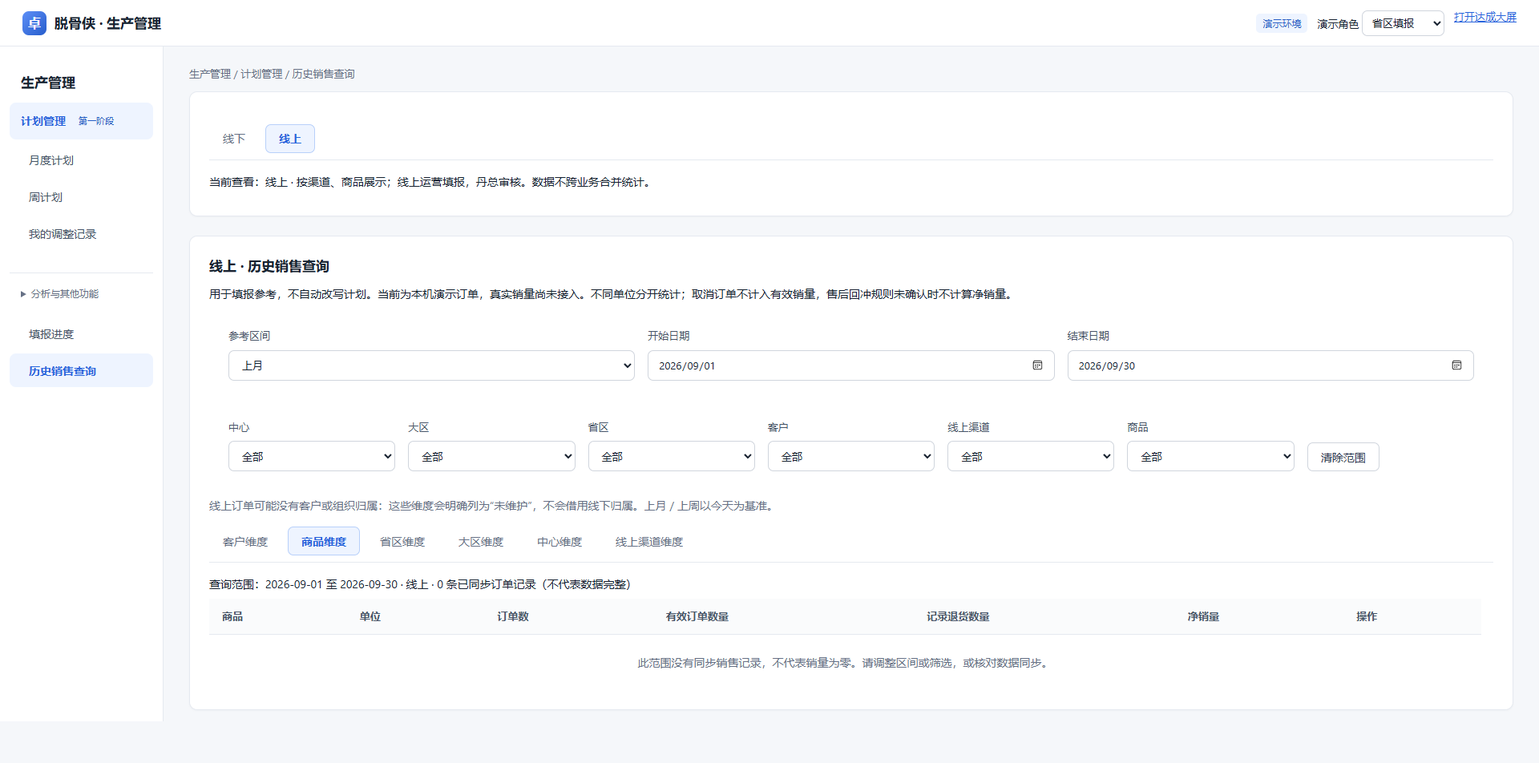
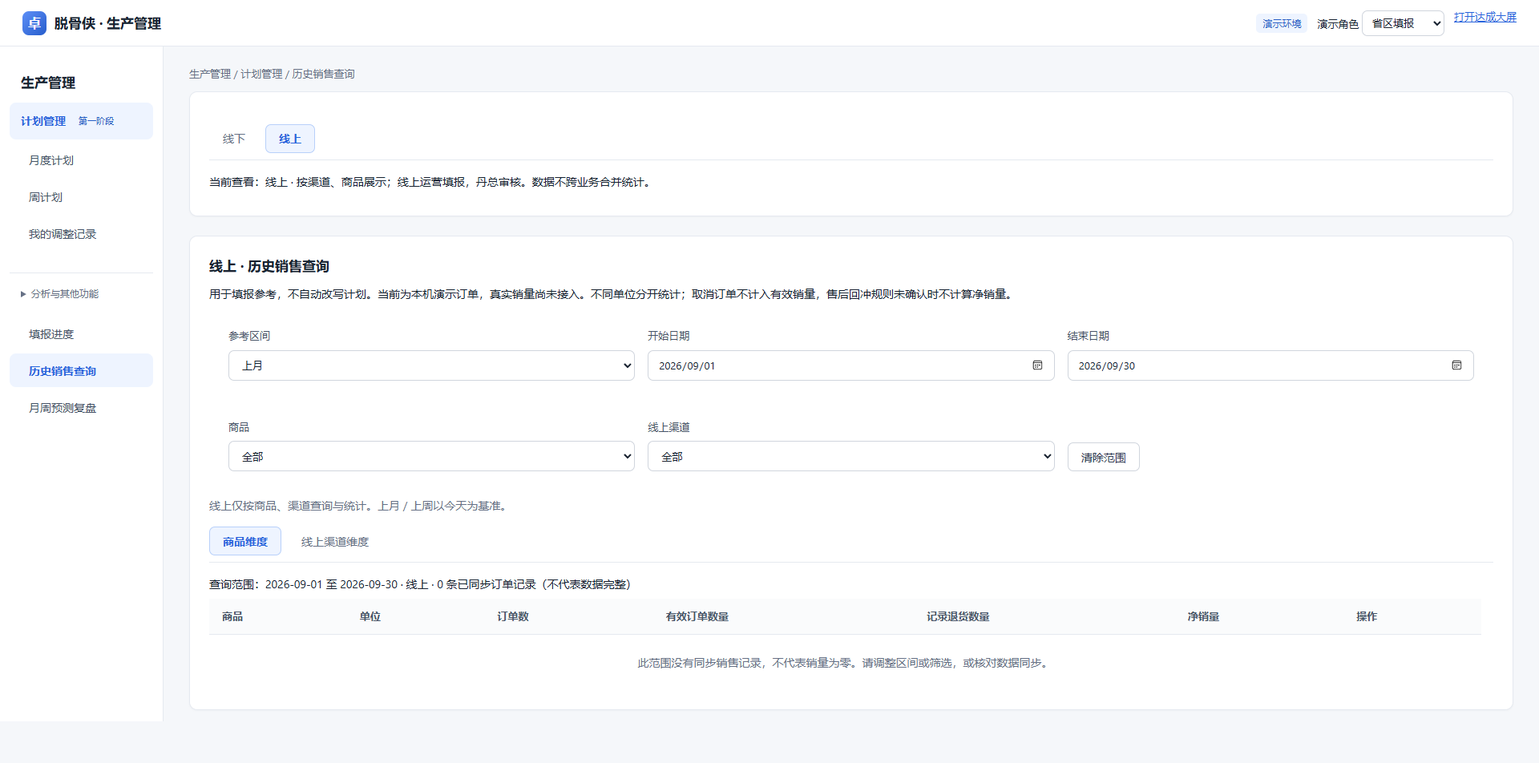
Auto sync 2026-10-12 15:03:13

diff --git a/09-设计与原型/销售计划管理/销售计划管理.js b/09-设计与原型/销售计划管理/销售计划管理.js
@@ -34,9 +34,9 @@
   }
   function filterBar(){const areaList=Object.keys(M.areas), provinces=filters.area==='all'?Object.values(M.areas).flat():M.areas[filters.area];return `<div class="card row filters"><label>业务 <select data-filter="business">${options(['offline','online'],filters.business).replace('>offline<','>线下<').replace('>online<','>线上<')}</select></label>${view==='plans'?'':`<label>计划类型 <select data-filter="kind">${options(['month','week'],filters.kind).replace('>month<','>月度计划<').replace('>week<','>周计划<')}</select></label>`}<label>计划周期 <input data-filter="cycle" aria-label="计划周期" type="${filters.kind==='month'?'month':'date'}" value="${esc(filters.cycle)}"></label><label>销售中心 <select data-filter="center">${options(M.centers,filters.center,'全部中心')}</select></label><label>大区 <select data-filter="area">${options(areaList,filters.area,'全部大区')}</select></label><label>省区 <select data-filter="province">${options(provinces,filters.province,'全部省区')}</select></label><label>线上渠道 <select data-filter="channel">${options(M.channels,filters.channel,'全部渠道')}</select></label><label>统计单位 <select data-filter="unit">${options(['箱','包','袋','盒','罐','支'],filters.unit)}</select></label><button data-action="clear">清除筛选</button></div>`;}
   function metrics(list){const approved=list.filter(p=>p.stage>=M.chain(p).length&&!p.rejected), total=approved.reduce((s,p)=>s+p.qty,0), actual=approved.some(p=>M.actual(d,p)===null)?null:approved.reduce((s,p)=>s+M.actual(d,p),0);return `<div class="metrics"><div class="metric">已确认计划数量<strong>${fmt(total)}</strong>${esc(filters.unit)} · ${approved.length} 条计划</div><div class="metric">实际完成数量<strong>${fmt(actual)}</strong>取消单不计入 · 同单位订单</div><div class="metric">计划差异<strong>${fmt(actual===null?null:total-actual)}</strong>计划减实际，允许负差异</div><div class="metric">达成率<strong>${actual===null?'待确认':total?Math.round(actual/total*100)+'%':'—'}</strong>月周计划独立分析</div></div>`;}
-  function planTable(list,review=false){return list.length?`<div class="table-wrap"><table><thead><tr><th>计划 / 版本</th><th>业务 / 周期</th><th>填报维度</th><th>商品</th><th>计划数量</th><th>实际完成</th><th>状态</th><th>操作</th></tr></thead><tbody>${list.map(p=>`<tr><td>${esc(p.id)} · V${p.version}<small>${esc(p.owner)}</small></td><td>${p.business==='online'?'线上':'线下'}${p.kind==='month'?'月度':'周'}<small>${p.start} 至 ${p.end}</small></td><td>${esc(subject(p))}<small>${esc(p.center)} ${esc(p.area)}</small></td><td>${esc(product(p.product))}</td><td>${fmt(p.qty)} ${esc(p.unit)}</td><td>${fmt(M.actual(d,p))}</td><td>${tag(M.status(d,p))}</td><td><button data-action="detail" data-id="${p.id}">详情 / 订单</button> ${p.stage<0||p.rejected?`<button data-action="submit" data-id="${p.id}">提交</button>`:''}${review&&M.chain(p)[p.stage]===role?` <button data-action="review" data-id="${p.id}">审核</button>`:''}${!screen&&p.stage>=M.chain(p).length&&!p.archived?` <button data-action="adjust" data-id="${p.id}">调整数量</button> <button data-action="archive" data-id="${p.id}">归档</button>`:''}</td></tr>`).join('')}</tbody></table></div>`:'<div class="empty">暂无符合条件的计划。请清除筛选或新增计划。</div>';}
+  function planTable(list,review=false){return list.length?`<div class="table-wrap"><table><thead><tr><th>计划 / 版本</th><th>业务 / 周期</th><th>填报维度</th><th>商品</th><th>计划数量</th><th>实际完成</th><th>状态</th><th>操作</th></tr></thead><tbody>${list.map(p=>`<tr><td>${esc(p.id)} · V${p.version}<small>${esc(p.owner)}</small></td><td>${p.business==='online'?'线上':'线下'}${p.kind==='month'?'月度':'周'}<small>${p.start} 至 ${p.end}</small></td><td>${esc(subject(p))}${p.business==='offline'?`<small>${esc(p.center)} ${esc(p.area)}</small>`:''}</td><td>${esc(product(p.product))}</td><td>${fmt(p.qty)} ${esc(p.unit)}</td><td>${fmt(M.actual(d,p))}</td><td>${tag(M.status(d,p))}</td><td><button data-action="detail" data-id="${p.id}">详情 / 订单</button> ${p.stage<0||p.rejected?`<button data-action="submit" data-id="${p.id}">提交</button>`:''}${review&&M.chain(p)[p.stage]===role?` <button data-action="review" data-id="${p.id}">审核</button>`:''}${!screen&&p.stage>=M.chain(p).length&&!p.archived?` <button data-action="adjust" data-id="${p.id}">调整数量</button> <button data-action="archive" data-id="${p.id}">归档</button>`:''}</td></tr>`).join('')}</tbody></table></div>`:'<div class="empty">暂无符合条件的计划。请清除筛选或新增计划。</div>';}
   function content(){
-    if(view==='plans'||view==='review')return `<div class="row space"><div><h1>${view==='review'?'分级审核':filters.kind==='month'?'月度计划填报':'周计划填报'}</h1><p class="muted">汇集线上、线下需求计划，为后续生产安排提供已确认的计划依据。线下月、周计划统一按省区、客户、商品填报，线上按渠道填报。</p></div>${view==='plans'?'<button class="primary" data-action="new">新增计划</button>':''}</div><div class="notice">月度窗口：${M.windowState(d,'month')} · 周计划窗口：${M.windowState(d,'week')}。月度20日填报、周五前完成，精确时点在填报规则中配置。</div>${metrics(rows())}${view==='review'?reviewSummary(rows()):''}<section class="card">${planTable(rows(),view==='review')}</section>`;
+    if(view==='plans'||view==='review')return `<div class="row space"><div><h1>${view==='review'?'分级审核':filters.kind==='month'?'月度计划填报':'周计划填报'}</h1><p class="muted">汇集线上、线下需求计划，为后续生产安排提供已确认的计划依据。线下月、周计划统一按省区、客户、商品填报，线上按渠道填报。</p></div>${view==='plans'?'<button class="primary" data-action="new">新增计划</button>':''}</div><div class="notice">月度窗口：${M.windowState(d,'month')} · 周计划窗口：${M.windowState(d,'week')}。月度20日填报、周五前完成，精确时点在填报规则中配置。</div>${metrics(rows())}${view==='review'&&filters.business==='offline'?reviewSummary(rows()):''}<section class="card">${planTable(rows(),view==='review')}</section>`;
     if(view==='analysis')return analysis();
     if(view==='products')return `<section class="card"><div class="row space"><h1>可填报商品维护</h1><button data-action="product-new" ${role!=='商品管理员'?'disabled':''}>新增商品</button></div><p>商品管理员维护启用状态、适用业务、生效与失效日期。停用不影响历史计划。</p><div class="table-wrap"><table><thead><tr><th>商品编码 / 名称</th><th>适用业务</th><th>有效期</th><th>状态</th><th>操作</th></tr></thead><tbody>${d.products.map(p=>`<tr><td>${esc(p.id)}<small>${esc(p.name)}</small></td><td>${esc(p.scope)}</td><td>${p.from} 至 ${p.to||'长期'}</td><td>${p.enabled?'已启用':'已停用'}</td><td><button data-action="product-edit" data-id="${p.id}" ${role!=='商品管理员'?'disabled':''}>编辑</button></td></tr>`).join('')}</tbody></table></div><h3>商品变更记录</h3>${d.productHistory.map(h=>`<p>${esc(h.at)} · ${esc(h.id)} · ${esc(h.action)}</p>`).join('')||'<p class="muted">暂无变更记录</p>'}</section>`;
     if(view==='adjustments')return `<section class="card"><h1>计划调整与审批</h1><p>开始前可调整月、周计划内容并重新审批；普通数量调整由计划部门审核，不走 OA。审批通过生成新版本，驳回保留原计划。</p>${d.adjustments.length?`<div class="table-wrap"><table><thead><tr><th>计划</th><th>调整前 / 后</th><th>原因 / 附件</th><th>审批人</th><th>状态 / 进度</th><th>操作</th></tr></thead><tbody>${d.adjustments.map(a=>`<tr><td>${a.plan} · V${a.base}<small>${a.type==='before-start'?'开始前内容调整':a.type==='quantity'?'普通数量调整':'历史加急数量调整'}</small></td><td>${a.type==='before-start'?`<details><summary>内容变更对比</summary><table><thead><tr><th>字段</th><th>原计划</th><th>申请调整</th></tr></thead><tbody>${PlanChange.diff(a,d)}</tbody></table></details>`:''}${fmt(a.before)} → ${fmt(a.after)}<small>差异 ${fmt(a.after-a.before)}</small></td><td>${esc(a.reason)}<small>${esc(a.attachment||'无附件')}</small></td><td>${esc(a.approver)}</td><td>${tag(a.type==='quantity'&&['待OA审批','待计划部门审核'].includes(a.status)?'待计划部门审核':a.status)}<small>发起：${esc(a.at)}</small><small>${a.reviewAt?'审批：'+esc(a.reviewAt):'等待 '+esc(a.approver)+' 确认'}</small><small>${esc(a.opinion||'')}</small></td><td>${['待OA审批','待计划部门审核'].includes(a.status)&&role===a.approver?`<button data-action="adjust-review" data-id="${a.id}">演示审批</button>`:''}</td></tr>`).join('')}</tbody></table></div>`:'<div class="empty">暂无调整记录。请从计划列表发起调整。</div>'}</section>`;
@@ -45,12 +45,12 @@
   }
 
   function reviewSummary(list){const groups=new Map();list.filter(p=>p.business==='offline').forEach(p=>{const key=p.center+' / '+p.area;const g=groups.get(key)||{original:0,current:0,count:0};g.original+=p.versions[0].qty;g.current+=p.qty;g.count++;groups.set(key,g);});return '<section class="card"><h2>省区 → 大区 → 中心汇总</h2><p class="muted">当前筛选范围及单位；省区原始值与执行版本分开保留，逐级审核意见可从明细查看。</p><div class="table-wrap"><table><thead><tr><th>中心 / 大区</th><th>省区计划明细数</th><th>原始填报合计</th><th>执行计划合计</th></tr></thead><tbody>'+[...groups].map(([name,g])=>'<tr><td>'+esc(name)+'</td><td>'+g.count+'</td><td>'+fmt(g.original)+'</td><td>'+fmt(g.current)+'</td></tr>').join('')+'</tbody></table></div></section>';}
-  function orderTable(list){list=list.filter(o=>PlanBusiness.canView(d,role,o)&&o.business===filters.business);return `<div class="table-wrap"><table><thead><tr><th>订单 / 来源</th><th>日期 / 客户或渠道</th><th>商品</th><th>数量 / 退货</th><th>月计划关联</th><th>周计划关联</th><th>状态</th></tr></thead><tbody>${list.map(o=>{const links=k=>d.plans.filter(p=>p.kind===k&&M.linked(d,p).some(x=>x.id===o.id));return `<tr><td>${o.id}<small>${o.source}</small></td><td>${o.date}<small>${esc(o.customer||o.channel)}</small></td><td>${esc(product(o.product))}</td><td>${fmt(o.qty)} ${o.unit}<small>退货 ${fmt(o.returned)}</small></td>${['month','week'].map(k=>`<td>${links(k).map(p=>`<button data-action="detail" data-id="${p.id}">${p.id}</button>`).join('')||'未匹配'}${links(k).length>1?tag('多匹配异常'):''} <button data-action="link-${k}" data-id="${o.id}">处理</button></td>`).join('')}<td>${esc(o.status)}</td></tr>`;}).join('')}</tbody></table></div>`;}
+  function orderTable(list){list=list.filter(o=>PlanBusiness.canView(d,role,o)&&o.business===filters.business);return `<div class="table-wrap"><table><thead><tr><th>订单 / 来源</th><th>日期 / ${filters.business==='online'?'渠道':'客户'}</th><th>商品</th><th>数量 / 退货</th><th>月计划关联</th><th>周计划关联</th><th>状态</th></tr></thead><tbody>${list.map(o=>{const links=k=>d.plans.filter(p=>p.kind===k&&M.linked(d,p).some(x=>x.id===o.id));return `<tr><td>${o.id}<small>${o.source}</small></td><td>${o.date}<small>${esc(o.business==='online'?o.channel:o.customer)}</small></td><td>${esc(product(o.product))}</td><td>${fmt(o.qty)} ${o.unit}<small>退货 ${fmt(o.returned)}</small></td>${['month','week'].map(k=>`<td>${links(k).map(p=>`<button data-action="detail" data-id="${p.id}">${p.id}</button>`).join('')||'未匹配'}${links(k).length>1?tag('多匹配异常'):''} <button data-action="link-${k}" data-id="${o.id}">处理</button></td>`).join('')}<td>${esc(o.status)}</td></tr>`;}).join('')}</tbody></table></div>`;}
   function analysis(){const list=rows().filter(p=>p.stage>=M.chain(p).length&&!p.rejected), dimensions=filters.business==='online'?['channel','product']:['center','area','province','customer','product'];return `<h1>计划完成情况与达成分析</h1><p class="muted">仅统计已确认及归档计划。不同单位分开统计；缺失销量与未确定口径显示待确认。</p>${metrics(rows())}<div class="grid">${dimensions.map(key=>{const groups=new Map();list.forEach(p=>{const name=key==='product'?product(p.product):p[key];if(!name)return;const x=groups.get(name)||{qty:0,actual:0,ids:[]};x.qty+=p.qty;const n=M.actual(d,p);x.actual=x.actual===null||n===null?null:x.actual+n;x.ids.push(p.id);groups.set(name,x);});return `<section class="card"><h2>${({center:'销售中心',area:'大区',province:'省区',customer:'客户',channel:'线上渠道',product:'商品'})[key]}达成</h2><div class="table-wrap"><table><thead><tr><th>维度</th><th>已确认计划数量</th><th>实际完成数量</th><th>达成率</th><th>操作</th></tr></thead><tbody>${[...groups].map(([name,g])=>`<tr><td>${esc(name)}</td><td>${fmt(g.qty)} ${esc(filters.unit)}</td><td>${fmt(g.actual)}</td><td>${g.actual===null?'待确认':g.qty?Math.round(g.actual/g.qty*100)+'%':'—'}</td><td>${g.ids.map(id=>`<button data-action="detail" data-id="${id}">详情 ${id}</button>`).join(' ')}</td></tr>`).join('')||'<tr><td colspan="5" class="empty">当前业务暂无已确认计划</td></tr>'}</tbody></table></div></section>`;}).join('')}</div><section class="card"><h2>计划明细下钻</h2>${planTable(list)}</section>`;}
   function modal(title,html){const el=document.getElementById('dialog');el.innerHTML=`<div class="row space"><h2 id="dialogTitle">${esc(title)}</h2><button id="close">关闭</button></div>${html}`;el.querySelector('#close').onclick=()=>el.close();el.showModal();setTimeout(()=>SalesUX.protect(),0);el.querySelectorAll('[data-action]').forEach(b=>b.onclick=()=>action(b.dataset.action,b.dataset.id));}
   const field=(label,name,html)=>`<label class="field">${label}${html||`<input name="${name}" required>`}</label>`;
   function newPlan(){return SalesUX.batch(uxApi);}
-  function detail(p){modal('计划详情 '+p.id,`<p>${esc(subject(p))} · ${esc(product(p.product))} · ${p.start} 至 ${p.end}</p><p>${tag(M.status(d,p))} · 当前 V${p.version} · ${fmt(p.qty)} ${p.unit}</p><h3>省区原始值及逐级汇总</h3><p>原始 ${fmt(p.versions[0].qty)}；当前执行 ${fmt(p.qty)}。以下审核意见保留各级汇总快照。</p><h3>版本记录</h3>${p.versions.map(v=>`<p>V${v.version} · ${fmt(v.qty)} ${p.unit} · ${esc(v.reason)}</p>`).join('')}<h3>全过程记录</h3>${p.history.map(h=>`<div class="history">${esc(h.at)} · ${esc(h.by)} · ${esc(h.action)} ${esc(h.opinion||'')}${h.qty!==undefined?' · 数量 '+fmt(h.qty):''}</div>`).join('')}<h3>内容调整与审批记录</h3>${d.adjustments.filter(a=>a.plan===p.id).map(a=>`<div class="history"><p>${esc(a.at)} · ${esc(a.reason)} · ${tag(a.status)}</p>${a.type==='before-start'?`<table><thead><tr><th>字段</th><th>调整前</th><th>申请调整</th></tr></thead><tbody>${PlanChange.diff(a,d)}</tbody></table>${(a.approvals||[]).map(x=>`<p>${esc(x.at)} · ${esc(x.by)} · ${esc(x.result)} · ${esc(x.opinion)}</p>`).join('')}`:''}</div>`).join('')||'暂无调整记录'}<h3>关联订单</h3>${orderTable(M.linked(d,p))}`);}
+  function detail(p){modal('计划详情 '+p.id,`<p>${esc(subject(p))} · ${esc(product(p.product))} · ${p.start} 至 ${p.end}</p><p>${tag(M.status(d,p))} · 当前 V${p.version} · ${fmt(p.qty)} ${p.unit}</p><h3>${p.business==='online'?'渠道原始填报及审核记录':'省区原始值及逐级汇总'}</h3><p>原始 ${fmt(p.versions[0].qty)}；当前执行 ${fmt(p.qty)}。以下审核意见保留各级汇总快照。</p><h3>版本记录</h3>${p.versions.map(v=>`<p>V${v.version} · ${fmt(v.qty)} ${p.unit} · ${esc(v.reason)}</p>`).join('')}<h3>全过程记录</h3>${p.history.map(h=>`<div class="history">${esc(h.at)} · ${esc(h.by)} · ${esc(h.action)} ${esc(h.opinion||'')}${h.qty!==undefined?' · 数量 '+fmt(h.qty):''}</div>`).join('')}<h3>内容调整与审批记录</h3>${d.adjustments.filter(a=>a.plan===p.id).map(a=>`<div class="history"><p>${esc(a.at)} · ${esc(a.reason)} · ${tag(a.status)}</p>${a.type==='before-start'?`<table><thead><tr><th>字段</th><th>调整前</th><th>申请调整</th></tr></thead><tbody>${PlanChange.diff(a,d)}</tbody></table>${(a.approvals||[]).map(x=>`<p>${esc(x.at)} · ${esc(x.by)} · ${esc(x.result)} · ${esc(x.opinion)}</p>`).join('')}`:''}</div>`).join('')||'暂无调整记录'}<h3>关联订单</h3>${orderTable(M.linked(d,p))}`);}
   function review(p){if(PlanChange.pending(d,p))return message('该计划的内容调整正在审批，请先处理调整。');if(M.chain(p)[p.stage]!==role)return;const previous=d.plans.filter(q=>q.id!==p.id&&q.business===p.business&&q.kind===p.kind&&q.product===p.product&&q.unit===p.unit&&q.end<p.start&&(p.business==='online'?q.channel===p.channel:q.center===p.center&&q.area===p.area&&q.province===p.province&&q.customer===p.customer)).sort((a,b)=>b.end.localeCompare(a.end))[0];modal('审核 '+p.id,`<div class="notice">上期计划：${previous?fmt(previous.qty)+' '+p.unit+'；本期较上期 '+fmt(p.qty-previous.qty):'暂无可比计划，不能用零值替代'}</div><p>${esc(subject(p))} · 数量 ${fmt(p.qty)} ${p.unit}</p><label class="field">审核意见<textarea id="opinion" required></textarea></label><div class="actions"><button id="reject">驳回</button><button class="primary" id="approve">通过并提交下一级</button></div>`);const finish=pass=>{const opinion=document.getElementById('opinion').value.trim();if(!opinion){message('请填写审核意见。');return;}log(p,pass?'审核通过（汇总快照）':'审核驳回',{opinion,qty:p.qty});if(pass)p.stage++;else p.rejected=true;if(persist()){document.getElementById('dialog').close();render();}};document.getElementById('approve').onclick=()=>finish(true);document.getElementById('reject').onclick=()=>finish(false);}
   function adjustment(p){if(!['省区填报','线上运营'].includes(role)){message('请由填报角色申请数量调整。');return;}modal('数量调整 '+p.id,`<form id="adjustForm"><div class="grid">${field('调整类型','type','<select name="type"><option value="add">增加数量</option><option value="subtract">减少数量</option></select>')}${field('差异数量','qty','<input name="qty" type="number" min="1" step="1" required>')}${field('调整原因','reason','<textarea name="reason" required></textarea>')}${field('附件（演示保留文件名）','attachment','<input name="attachment" type="file">')}</div><p>普通数量调整由计划部门审核，不提交 OA；审核通过后生成新版本，保留调整记录。</p><div class="error" id="adjustError"></div><div class="actions"><button class="primary">提交计划部门审核</button></div></form>`);document.getElementById('adjustForm').onsubmit=e=>{e.preventDefault();const f=e.target,q=Number(f.qty.value),after=p.qty+(f.type.value==='add'?q:-q);const guard=PlanBusiness.adjustGuard(d,p,after);if(guard){document.getElementById('adjustError').textContent=guard;return;}if(!Number.isInteger(q)||q<1||after<0||d.adjustments.some(a=>a.plan===p.id&&['待OA审批','待计划部门审核'].includes(a.status))){document.getElementById('adjustError').textContent='数量无效、减少后为负，或该计划已有待审批调整。';return;}d.adjustments.push({id:'A'+Date.now(),plan:p.id,base:p.version,type:'quantity',before:p.qty,after,reason:f.reason.value.trim(),attachment:f.attachment.files[0]?.name||'',approver:'计划部门',at:new Date().toISOString(),status:'待计划部门审核'});log(p,'申请普通数量调整，由计划部门审核');PlanBusiness.notify(d,'计划部门','待审核数量调整',p.id+'：'+p.qty+' → '+after);if(persist()){document.getElementById('dialog').close();view='adjustments';render();}};}
   function productForm(p){if(role!=='商品管理员')return;modal(p?'编辑可填报商品':'新增可填报商品',`<form id="productForm"><div class="grid">${field('商品编码','id',`<input name="id" value="${esc(p?.id||'')}" ${p?'readonly':''} required>`)}${field('商品名称','name',`<input name="name" value="${esc(p?.name||'')}" required>`)}${field('适用业务','scope',`<select name="scope">${options(['全部','线上','线下'],p?.scope)}</select>`)}${field('启用状态','enabled',`<select name="enabled">${options(['已启用','已停用'],p?.enabled===false?'已停用':'已启用')}</select>`)}${field('生效日期','from',`<input name="from" type="date" required value="${p?.from||''}">`)}${field('失效日期','to',`<input name="to" type="date" value="${p?.to||''}">`)}</div><div class="error" id="productError"></div><div class="actions"><button class="primary">保存商品</button></div></form>`);document.getElementById('productForm').onsubmit=e=>{e.preventDefault();const x=Object.fromEntries(new FormData(e.target));if((x.to&&x.to<x.from)||(!p&&d.products.some(v=>v.id===x.id))){document.getElementById('productError').textContent='商品编码重复或有效期错误，请修正。';return;}const before=p?structuredClone(p):null,after={...x,enabled:x.enabled==='已启用'};if(p)Object.assign(p,after);else d.products.push(after);d.productHistory.push({at:new Date().toISOString(),id:x.id,action:before?'商品更新':'新增商品',before,after:structuredClone(after),by:role});if(persist()){document.getElementById('dialog').close();render();}};}

diff --git a/09-设计与原型/销售计划管理/计划任务界面.js b/09-设计与原型/销售计划管理/计划任务界面.js
@@ -12,7 +12,7 @@
   content.querySelector('h1')?.remove();const context=document.createElement('section');context.className='task-context';context.innerHTML=`<div><div class="task-eyebrow">当前任务 · ${E(role)}</div><h1>${E(view==='plans'?scope+' · '+kind+'计划':task)}</h1><p>${E(view==='review'?'只展示下级审核通过并进入本级的数据，点击详情查看来源。':view==='plans'?'每行是一名客户的一个商品计划。填写后提交审核，调整另行留痕。':view==='adjustments'?'先看调整前后差异，再查看原因并处理审核。':'查看下方数据，点击详情进一步查看。')}</p></div><div class="task-context-meta"><span>周期：${E(f.cycle||'全部')}</span><span>范围：${E(scope)}</span><span>单位：${E(f.unit)}</span></div>`;content.prepend(context);const primary=content.querySelector('[data-action=new]');if(primary){context.append(primary);primary.textContent='新增计划';}
   if(['plans','review'].includes(view)){content.querySelector('.metrics')?.remove();content.querySelectorAll('.entry-cards').forEach(e=>e.remove());content.querySelectorAll(':scope>.row.space p').forEach(e=>e.remove());content.querySelectorAll(':scope>.notice').forEach(e=>e.remove());}
   const filters=content.querySelector('.filters');if(filters){const more=document.createElement('details');more.className='filter-more';more.innerHTML='<summary>更多筛选</summary><div class="row"></div>';filters.querySelectorAll('label').forEach(label=>{const key=label.querySelector('[data-filter]')?.dataset.filter;if(!['cycle','kind','province','channel'].includes(key))more.querySelector('div').append(label);if(key==='province'&&role==='线上运营')label.hidden=true;if(key==='channel'&&role!=='线上运营'&&f.business==='offline')label.hidden=true;});filters.append(more);}
-  if(view==='plans'){const list=a.rows(),bar=document.createElement('div');bar.className='task-counts';for(const [label,mode,test] of [['全部','all',()=>true],['草稿','draft',p=>p.stage<0],['审核中','review',p=>p.stage>=0&&p.stage<SalesPlan.chain(p).length&&!p.rejected],['已确认','confirmed',p=>p.stage>=SalesPlan.chain(p).length&&!p.rejected],['已驳回','rejected',p=>p.rejected]]){const b=document.createElement('button');b.textContent=label+' '+list.filter(test).length;b.setAttribute('aria-pressed',a.status()===mode);b.onclick=()=>a.setStatus(mode);bar.append(b);}content.querySelector(':scope>.card:not(.filters)')?.before(bar);const table=content.querySelector(':scope>.card:not(.filters) table');if(table){table.querySelectorAll('tbody tr').forEach(row=>{const id=row.querySelector('[data-action=detail]')?.dataset.id,p=list.find(p=>p.id===id),s=a.status();row.hidden=!!p&&!({all:()=>true,draft:()=>p.stage<0,review:()=>p.stage>=0&&p.stage<SalesPlan.chain(p).length&&!p.rejected,confirmed:()=>p.stage>=SalesPlan.chain(p).length&&!p.rejected,rejected:()=>p.rejected}[s]||(()=>true))();});table.querySelectorAll('tr').forEach(row=>{[0,1,5].forEach(i=>{if(row.children[i])row.children[i].hidden=true;});if(row.parentElement.tagName==='THEAD'&&row.children[2])row.children[2].textContent='客户 / 省区';const b=row.querySelector('[data-action=detail]');if(b)b.textContent='查看详情';});}const window=document.createElement('p');window.className='task-window';window.textContent=kind+'填报：'+SalesPlan.windowState(d,f.kind)+(d.windows[f.kind].close?' · 截止 '+d.windows[f.kind].close.replace('T',' '):' · 时间待配置，可先保存草稿');context.after(window);}
+  if(view==='plans'){const list=a.rows(),bar=document.createElement('div');bar.className='task-counts';for(const [label,mode,test] of [['全部','all',()=>true],['草稿','draft',p=>p.stage<0],['审核中','review',p=>p.stage>=0&&p.stage<SalesPlan.chain(p).length&&!p.rejected],['已确认','confirmed',p=>p.stage>=SalesPlan.chain(p).length&&!p.rejected],['已驳回','rejected',p=>p.rejected]]){const b=document.createElement('button');b.textContent=label+' '+list.filter(test).length;b.setAttribute('aria-pressed',a.status()===mode);b.onclick=()=>a.setStatus(mode);bar.append(b);}content.querySelector(':scope>.card:not(.filters)')?.before(bar);const table=content.querySelector(':scope>.card:not(.filters) table');if(table){table.querySelectorAll('tbody tr').forEach(row=>{const id=row.querySelector('[data-action=detail]')?.dataset.id,p=list.find(p=>p.id===id),s=a.status();row.hidden=!!p&&!({all:()=>true,draft:()=>p.stage<0,review:()=>p.stage>=0&&p.stage<SalesPlan.chain(p).length&&!p.rejected,confirmed:()=>p.stage>=SalesPlan.chain(p).length&&!p.rejected,rejected:()=>p.rejected}[s]||(()=>true))();});table.querySelectorAll('tr').forEach(row=>{[0,1,5].forEach(i=>{if(row.children[i])row.children[i].hidden=true;});if(row.parentElement.tagName==='THEAD'&&row.children[2])row.children[2].textContent=f.business==='online'?'渠道':'客户 / 省区';const b=row.querySelector('[data-action=detail]');if(b)b.textContent='查看详情';});}const window=document.createElement('p');window.className='task-window';window.textContent=kind+'填报：'+SalesPlan.windowState(d,f.kind)+(d.windows[f.kind].close?' · 截止 '+d.windows[f.kind].close.replace('T',' '):' · 时间待配置，可先保存草稿');context.after(window);}
   if(view==='adjustments'){const top=document.createElement('div');top.className='task-counts';top.innerHTML='<label class="check"><input id="adjustMine" type="checkbox" checked>只看待我处理</label><span id="adjustTaskCount"></span>';context.after(top);const apply=()=>{let count=0;content.querySelectorAll('tbody>tr').forEach(row=>{if(!row.querySelector('[data-action=adjust-review]')&&!row.querySelector('td'))return;const b=row.querySelector('[data-action=adjust-review]'),can=!!b;if(can)count++;if(row.parentElement.closest('details'))return;row.hidden=document.getElementById('adjustMine').checked&&!can;});document.getElementById('adjustTaskCount').textContent='待我处理 '+count+' 条';};if(['省区填报','线上运营'].includes(role))document.getElementById('adjustMine').checked=false;document.getElementById('adjustMine').onchange=apply;apply();}
  }
  window.PlanTaskUI={decorate};

diff --git a/09-设计与原型/销售计划管理/业务维度约束.md b/09-设计与原型/销售计划管理/业务维度约束.md
@@ -1,0 +1,8 @@
+# 业务维度约束（最新确认）
+
+线上仅商品、渠道维度；无客户、省区、大区、中心概念。
+线下为客户、商品、省区、大区、中心维度；无渠道维度。
+
+以上约束用于历史销售独立页及填报查询弹窗、月周预测复盘、达成分析、计划列表及订单详情。切换业务时重置不适用的筛选，不展示“线上组织未维护”等错误提示。
+
+此口径替代此前文档中线上可按客户或组织统计、线下可按渠道统计的描述。不删除既有历史数据，仅按适用业务维度读取和展示。
